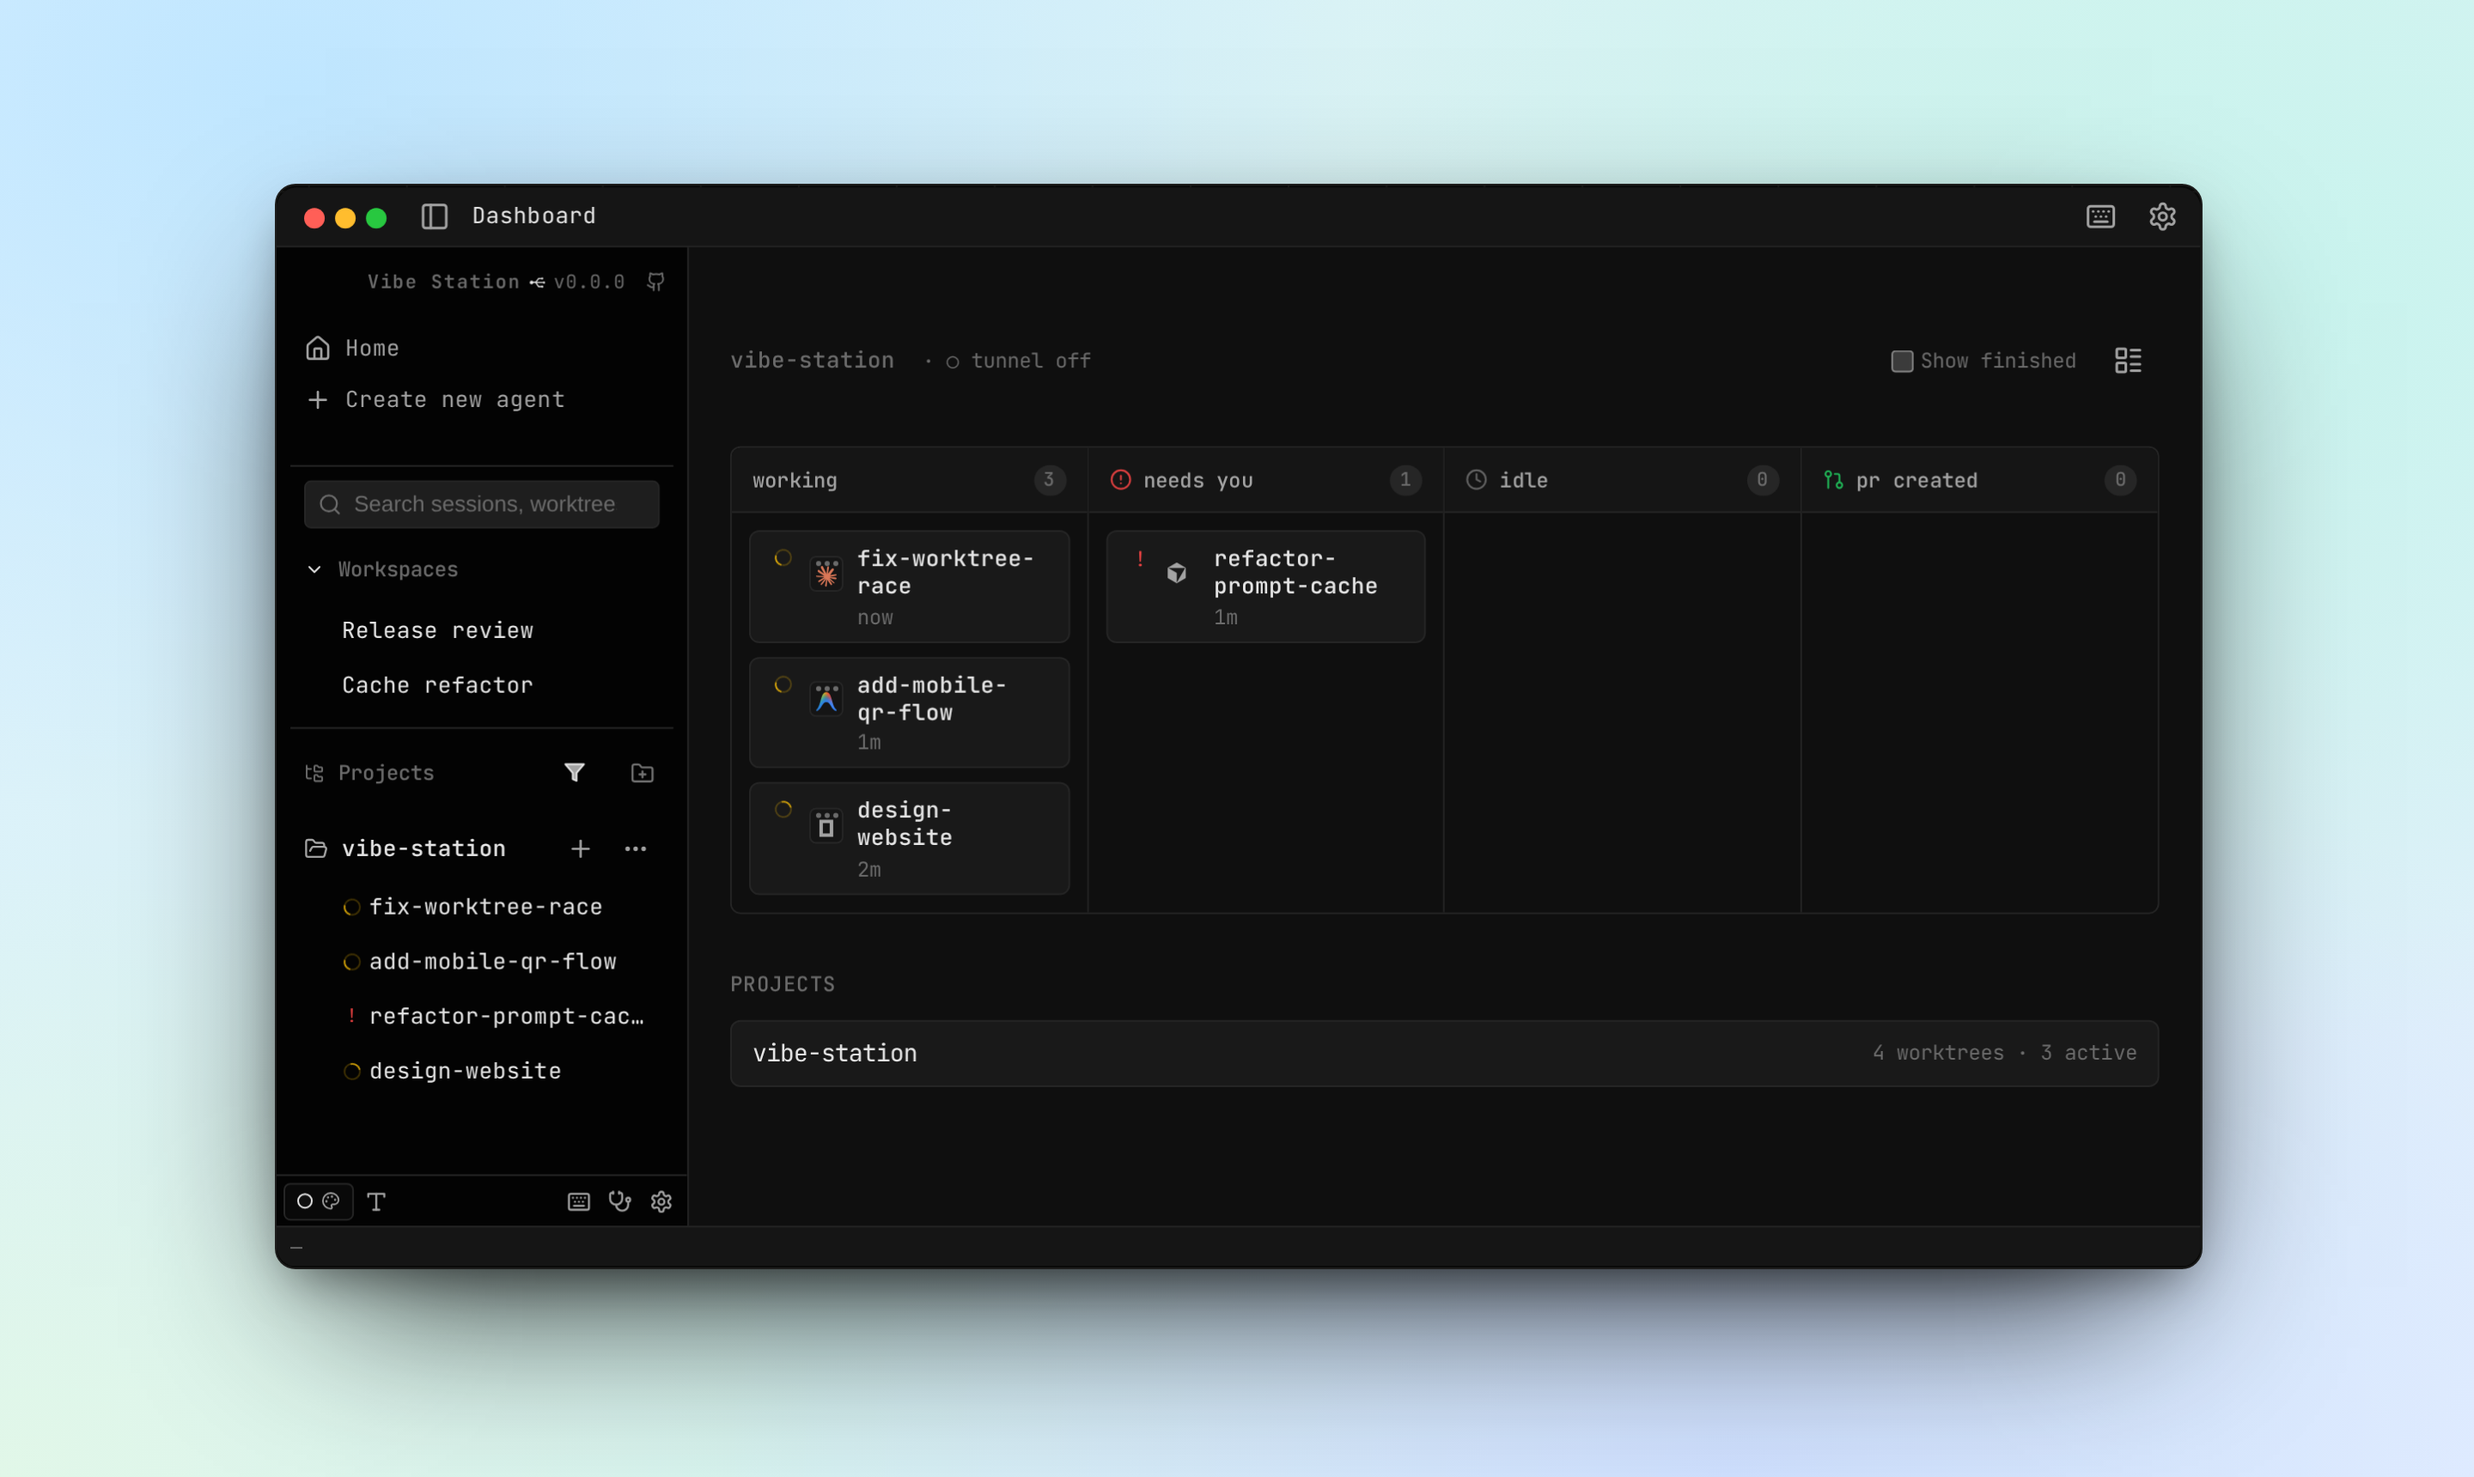
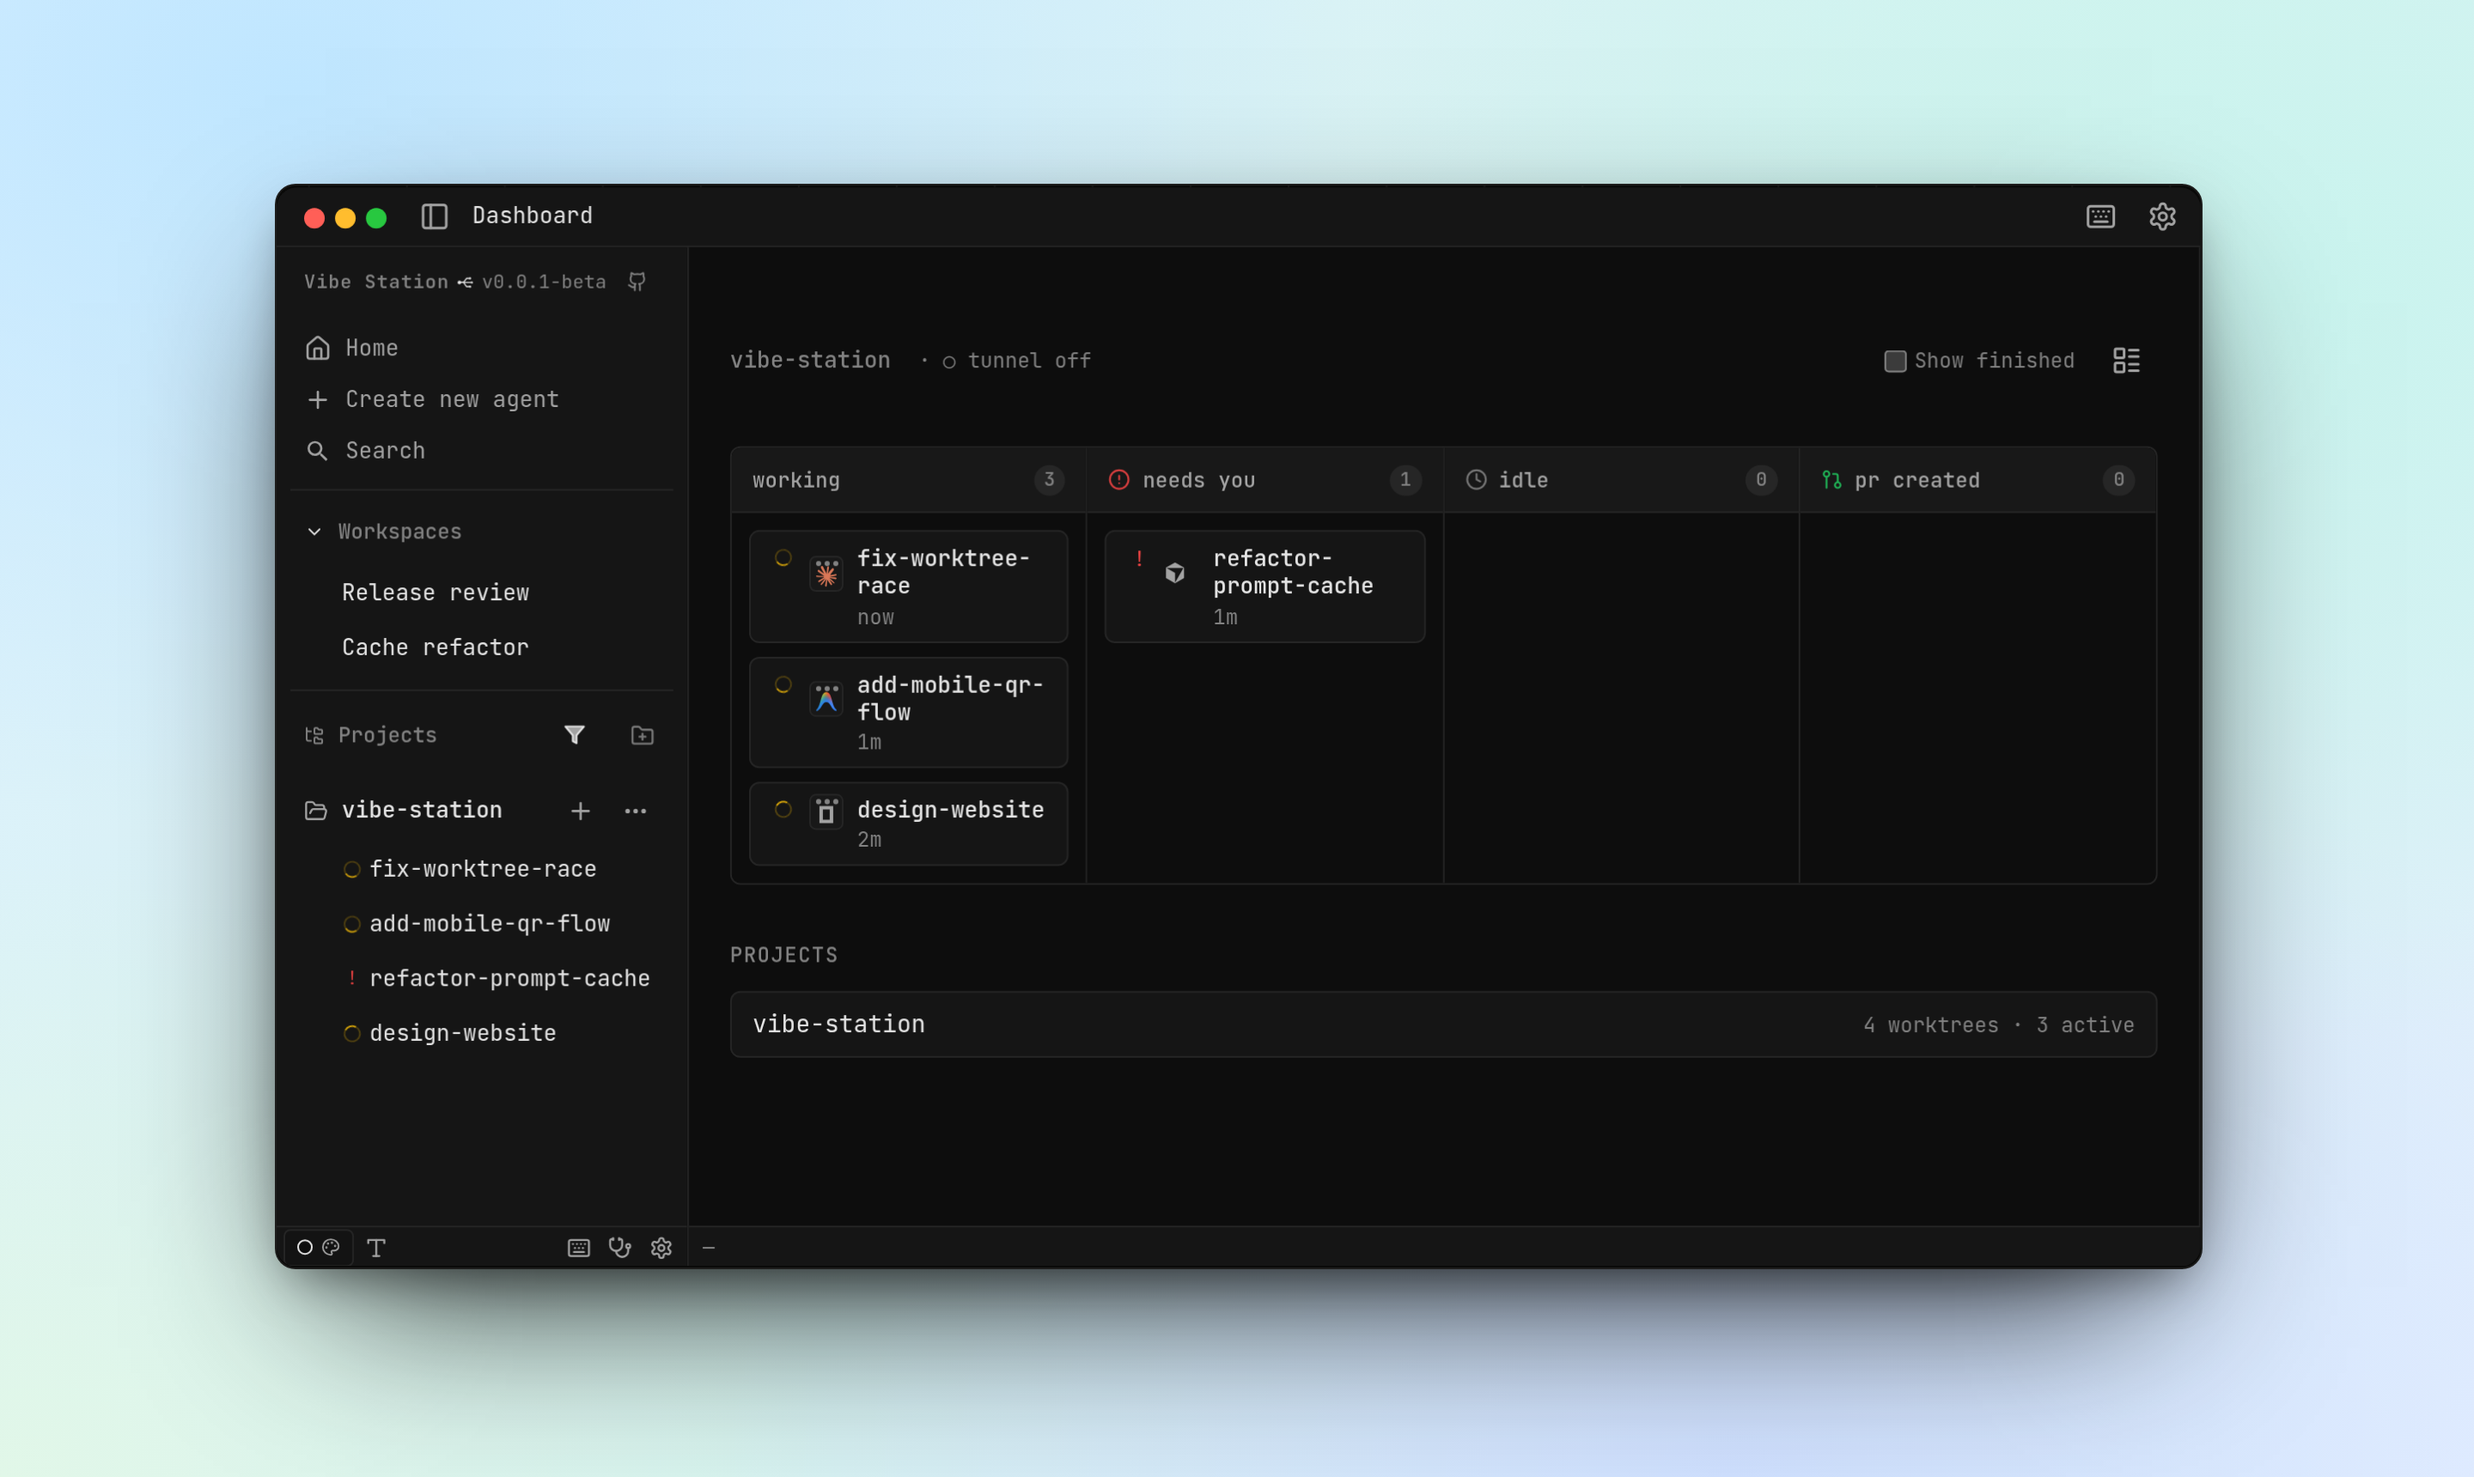
docs(readme): retake screenshots with the updated theme; light shot overlays traffic lights on the app top bar
Dark shots regenerated from the website demos (submodule at current main).
07 (light) now keeps the sidebar open and overlays the traffic lights on the
app's own top bar next to the sidebar toggle, instead of a separate title bar.

diff --git a/docs/screenshots/README.md b/docs/screenshots/README.md
@@ -25,7 +25,7 @@ SITE_URL=http://localhost:5391 node scripts/capture-readme-screenshots.mjs
 `07` is the one image that is *not* from the website demos: it drives the real web-ui on a running dev sandbox seeded
 with the demo dataset (`LIVE_URL=http://localhost:<port>`, `worktree napi-1`), forces `vibestation-light` for that
 browser only (the chat history is scripted in the capture script and fed to that browser over a proxied WebSocket;
-the sandbox itself is never modified), and frames it with a light title bar on the dark `dusk` wallpaper. Use `ONLY=07-markdown-file-tree.png`
+the sandbox itself is never modified), and frames it with the traffic lights overlaid on the app's own top bar (next to the sidebar toggle, like the dark shots) on the dark `dusk` wallpaper. Use `ONLY=07-markdown-file-tree.png`
 to produce just it (no website server needed).
 
 `WALLPAPER` picks a preset (default `mist`), `SHOTS_OUT_DIR` redirects output, `PLAYWRIGHT_MODULE` points at a Playwright install (default `@playwright/test`), `CHROMIUM_PATH` at a browser
